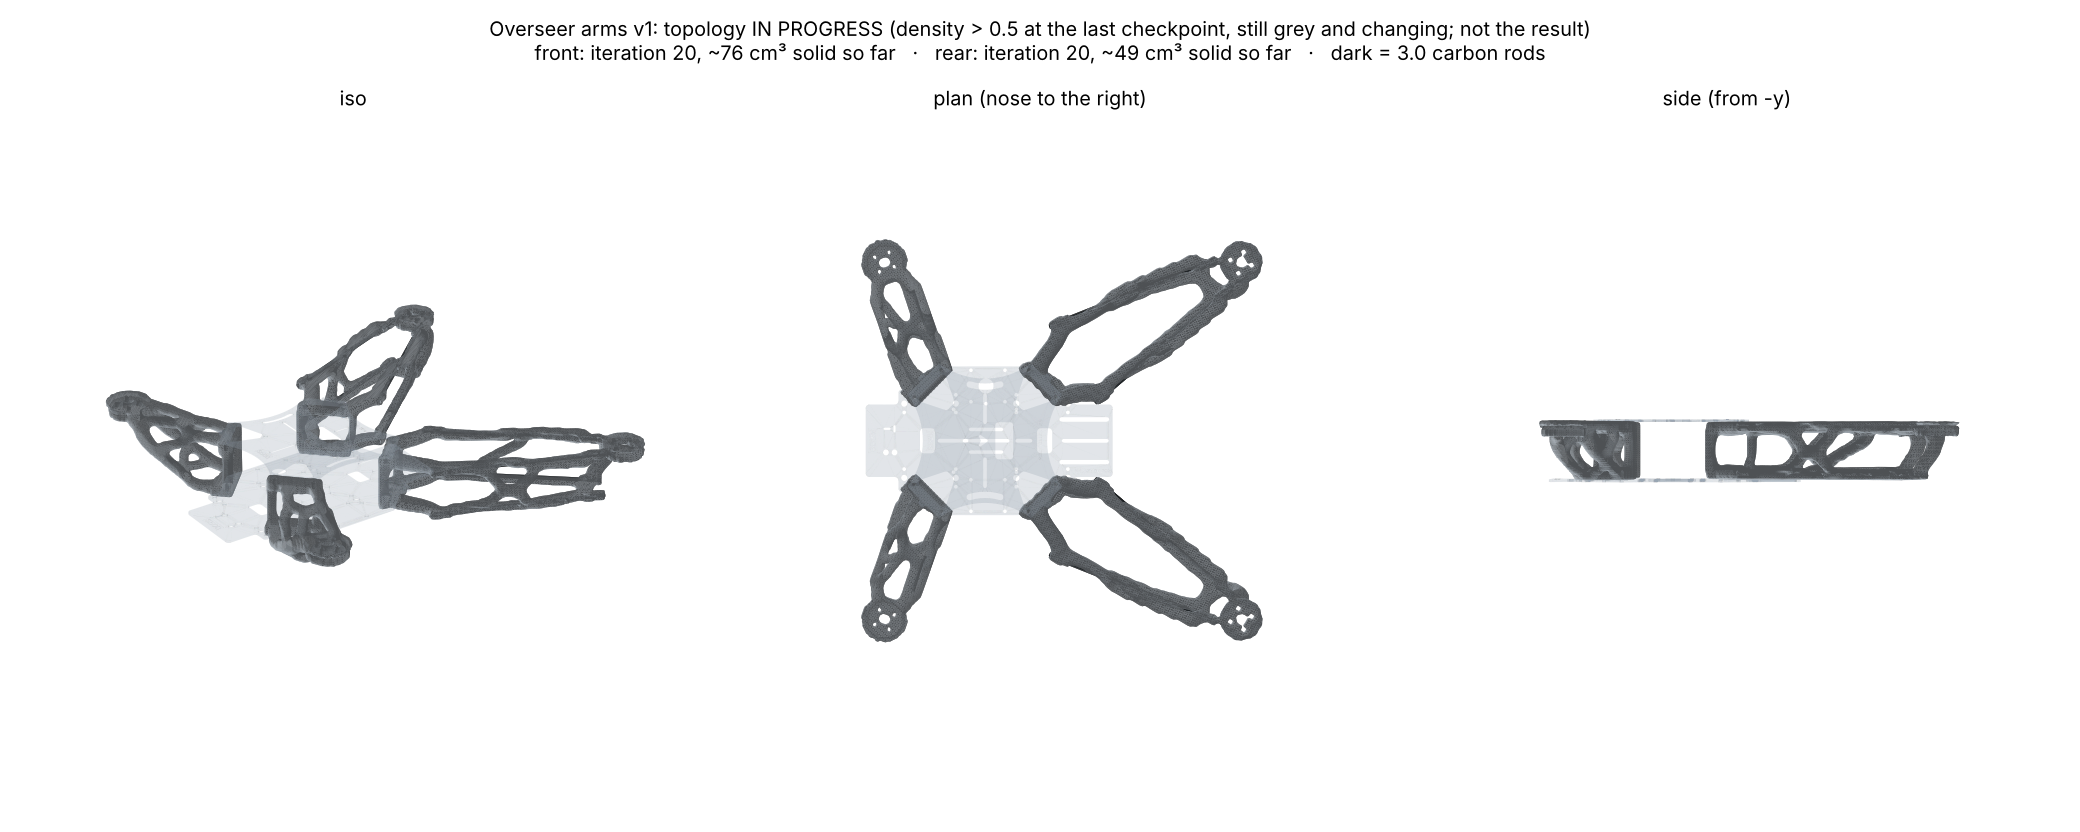
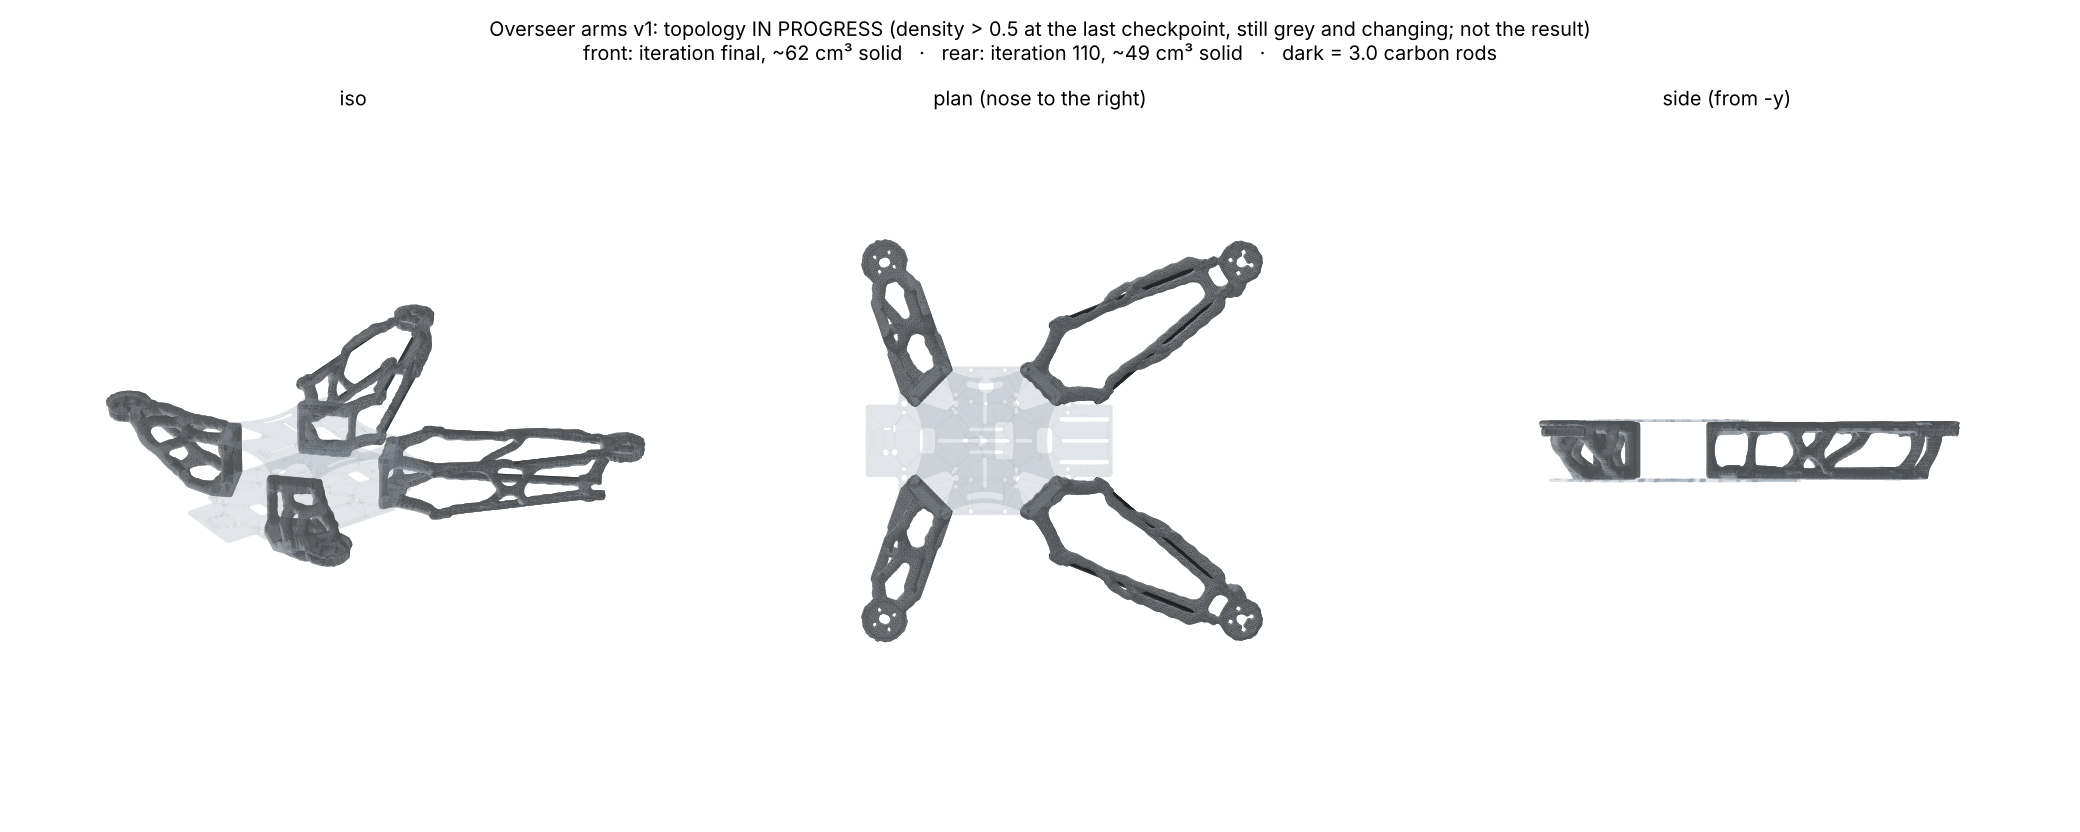
overseer arms v1: progress picture (front layout final, rear iteration 110)
Claude-Session: https://claude.ai/code/session_01EtHMZNuHnrXvnLgzSvxgLg

diff --git a/nox/overseer/arm_progress_v1.py b/nox/overseer/arm_progress_v1.py
@@ -16,16 +16,21 @@ for w in ("front", "rear"):
     p = A.setup_for(w)(H[w])
     skin = p.functional_skin(2.5)
     design = p.design | (p.solid & ~skin)
-    d = np.load(f"{S}/prog_{w}/ck.npz", allow_pickle=True)
-    x = d["x"]; it = int(d["it"])
-    assert design.sum() == len(x), (design.sum(), len(x))
-    f = np.zeros(p.nel); f[design] = x; f[skin & ~p.insert_cells] = 1.0
+    if os.path.exists(f"{S}/prog_{w}/density.npz"):                    # a finished layout: the nominal field
+        d = np.load(f"{S}/prog_{w}/density.npz", allow_pickle=True)
+        f = np.asarray(d["rho_n"], float).ravel(); it = "final"
+        f[p.insert_cells] = 0.0
+    else:
+        d = np.load(f"{S}/prog_{w}/ck.npz", allow_pickle=True)
+        x = d["x"]; it = int(d["it"])
+        assert design.sum() == len(x), (design.sum(), len(x))
+        f = np.zeros(p.nel); f[design] = x; f[skin & ~p.insert_cells] = 1.0
     f3 = ndi.gaussian_filter(f.reshape(p.shape), 0.7)
     v, fc, _, _ = measure.marching_cubes(np.pad(f3, 1), 0.5)
     v = (v - 1) * p.h + np.array(p.origin) + p.h / 2
     m = trimesh.Trimesh(v, fc); B, F = A.bodies(w)
     vol = (f > 0.5).sum() * p.h ** 3 / 1000
-    info.append(f"{w}: iteration {it}, ~{vol:.0f} cm³ solid so far")
+    info.append(f"{w}: iteration {it}, ~{vol:.0f} cm³ solid")
     for mir in (False, True):
         parts.append((A.arm_to_drone(m, F, mir), "#b9c3cc"))
         if w == "front":
